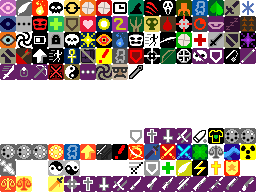
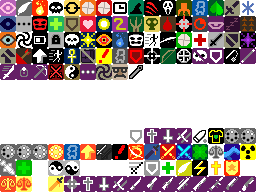
의무관 왕관 능력 리워크: 재생 장치

Changed region(s): [[0.0625, 0.8125, 0.125, 0.9375]]

diff --git a/core/src/main/java/com/shatteredpixel/shatteredpixeldungeon/actors/hero/abilities/medic/HealingGenerator.java b/core/src/main/java/com/shatteredpixel/shatteredpixeldungeon/actors/hero/abilities/medic/HealingGenerator.java
@@ -1,0 +1,115 @@
+/*
+ * Pixel Dungeon
+ * Copyright (C) 2012-2015 Oleg Dolya
+ *
+ * Shattered Pixel Dungeon
+ * Copyright (C) 2014-2022 Evan Debenham
+ *
+ * This program is free software: you can redistribute it and/or modify
+ * it under the terms of the GNU General Public License as published by
+ * the Free Software Foundation, either version 3 of the License, or
+ * (at your option) any later version.
+ *
+ * This program is distributed in the hope that it will be useful,
+ * but WITHOUT ANY WARRANTY; without even the implied warranty of
+ * MERCHANTABILITY or FITNESS FOR A PARTICULAR PURPOSE.  See the
+ * GNU General Public License for more details.
+ *
+ * You should have received a copy of the GNU General Public License
+ * along with this program.  If not, see <http://www.gnu.org/licenses/>
+ */
+
+package com.shatteredpixel.shatteredpixeldungeon.actors.hero.abilities.medic;
+
+import com.shatteredpixel.shatteredpixeldungeon.Dungeon;
+import com.shatteredpixel.shatteredpixeldungeon.actors.Actor;
+import com.shatteredpixel.shatteredpixeldungeon.actors.Char;
+import com.shatteredpixel.shatteredpixeldungeon.actors.buffs.Barrier;
+import com.shatteredpixel.shatteredpixeldungeon.actors.buffs.Buff;
+import com.shatteredpixel.shatteredpixeldungeon.actors.buffs.FlavourBuff;
+import com.shatteredpixel.shatteredpixeldungeon.actors.buffs.Invisibility;
+import com.shatteredpixel.shatteredpixeldungeon.actors.hero.Hero;
+import com.shatteredpixel.shatteredpixeldungeon.actors.hero.Talent;
+import com.shatteredpixel.shatteredpixeldungeon.actors.hero.abilities.ArmorAbility;
+import com.shatteredpixel.shatteredpixeldungeon.actors.mobs.Mob;
+import com.shatteredpixel.shatteredpixeldungeon.items.armor.ClassArmor;
+import com.shatteredpixel.shatteredpixeldungeon.ui.BuffIndicator;
+import com.shatteredpixel.shatteredpixeldungeon.ui.HeroIcon;
+
+public class HealingGenerator extends ArmorAbility {
+
+	{
+		baseChargeUse = 35f;
+	}
+
+	@Override
+	public void activate(ClassArmor armor, Hero hero, Integer target) {
+		Buff.affect(hero, RegenBuff.class, RegenBuff.DURATION + 5*hero.pointsInTalent(Talent.DURABLE_GEN));
+
+		hero.sprite.operate(hero.pos);
+		hero.spendAndNext(Actor.TICK);
+
+		armor.charge -= chargeUse(hero);
+		armor.updateQuickslot();
+		Invisibility.dispel();
+	}
+
+	@Override
+	public int icon() {
+		return HeroIcon.HEAL_GENERATOR;
+	}
+
+	@Override
+	public Talent[] talents() {
+		return new Talent[]{Talent.HEALING_AMP, Talent.SHIELD_GEN, Talent.DURABLE_GEN, Talent.HEROIC_ENERGY};
+	}
+
+	public static class RegenBuff extends FlavourBuff {
+		public static final float DURATION	= 20f;
+
+		{
+			type = buffType.POSITIVE;
+			announced = true;
+		}
+
+		@Override
+		public int icon() {
+			return BuffIndicator.REGEN;
+		}
+
+		@Override
+		public float iconFadePercent() {
+			return Math.max(0, (DURATION - visualcooldown()) / DURATION);
+		}
+
+		public void attackProc() {
+			if (!(target instanceof Hero)) {
+				detach();
+				return;
+			}
+
+			Hero hero = (Hero) target;
+			int affected = 0;
+			for (Mob mob : Dungeon.level.mobs.toArray( new Mob[0] )) {
+				if (mob.alignment == Char.Alignment.ALLY) {
+					int healAmt = Math.max((2*hero.pointsInTalent(Talent.HEALING_AMP) + 8)-2*Dungeon.level.distance(hero.pos, mob.pos), 0); //기본 회복량은 8이나, 아군이 최소 1타일은 떨어져 있기 때문에 실질적인 초기 회복량은 6이 된다.
+					if (healAmt > 0 && mob.HP < mob.HT) { //최대 체력인 아군은 회복시키지 않으며, 적용된 아군 숫자에도 포함시키지 않음
+						mob.heal(healAmt);
+						affected++;
+					}
+				}
+			} //heals nearby enemies per every attack
+			
+			if (affected > 0 && hero.hasTalent(Talent.SHIELD_GEN)) { //방어막 적용 메커니즘
+				affected = Math.min(affected, 8); //최대 8체까지만 적용
+				for (int i = 0; i < affected; i++) {
+					Barrier barrier = Buff.affect(hero, Barrier.class);
+					barrier.incShield(hero.pointsInTalent(Talent.SHIELD_GEN));
+					if (barrier.shielding() > Math.round(hero.HT*0.8f)) { //실드가 최대 체력의 80%를 넘어갈 경우 방어막 양을 최대 체력의 80%로 설정
+						barrier.setShield(Math.round(hero.HT*0.8f));
+					}
+				}
+			}
+		}
+	}
+}

diff --git a/core/src/main/java/com/shatteredpixel/shatteredpixeldungeon/actors/hero/HeroClass.java b/core/src/main/java/com/shatteredpixel/shatteredpixeldungeon/actors/hero/HeroClass.java
@@ -48,7 +48,7 @@ import com.shatteredpixel.shatteredpixeldungeon.actors.hero.abilities.mage.WarpB
 import com.shatteredpixel.shatteredpixeldungeon.actors.hero.abilities.mage.WildMagic;
 import com.shatteredpixel.shatteredpixeldungeon.actors.hero.abilities.medic.AngelWing;
 import com.shatteredpixel.shatteredpixeldungeon.actors.hero.abilities.medic.GammaRayEmmit;
-import com.shatteredpixel.shatteredpixeldungeon.actors.hero.abilities.medic.HealareaGenerator;
+import com.shatteredpixel.shatteredpixeldungeon.actors.hero.abilities.medic.HealingGenerator;
 import com.shatteredpixel.shatteredpixeldungeon.actors.hero.abilities.rogue.DeathMark;
 import com.shatteredpixel.shatteredpixeldungeon.actors.hero.abilities.rogue.ShadowClone;
 import com.shatteredpixel.shatteredpixeldungeon.actors.hero.abilities.rogue.SmokeBomb;
@@ -453,7 +453,7 @@ public enum HeroClass {
 			case KNIGHT:
 				return new ArmorAbility[]{new HolyShield(), new StimPack(), new UnstableAnkh()};
 			case MEDIC:
-				return new ArmorAbility[]{new HealareaGenerator(), new AngelWing(), new GammaRayEmmit()};
+				return new ArmorAbility[]{new HealingGenerator(), new AngelWing(), new GammaRayEmmit()};
 		}
 	}
 

diff --git a/core/src/main/java/com/shatteredpixel/shatteredpixeldungeon/actors/hero/Hero.java b/core/src/main/java/com/shatteredpixel/shatteredpixeldungeon/actors/hero/Hero.java
@@ -104,6 +104,7 @@ import com.shatteredpixel.shatteredpixeldungeon.actors.hero.abilities.duelist.El
 import com.shatteredpixel.shatteredpixeldungeon.actors.hero.abilities.gunner.ReinforcedArmor;
 import com.shatteredpixel.shatteredpixeldungeon.actors.hero.abilities.gunner.Riot;
 import com.shatteredpixel.shatteredpixeldungeon.actors.hero.abilities.huntress.NaturesPower;
+import com.shatteredpixel.shatteredpixeldungeon.actors.hero.abilities.medic.HealingGenerator;
 import com.shatteredpixel.shatteredpixeldungeon.actors.hero.abilities.samurai.ShadowBlade;
 import com.shatteredpixel.shatteredpixeldungeon.actors.hero.abilities.warrior.Endure;
 import com.shatteredpixel.shatteredpixeldungeon.actors.mobs.Mimic;
@@ -2166,6 +2167,11 @@ public class Hero extends Char {
 		}
 
 		//attacking procs
+		HealingGenerator.RegenBuff regenBuff = hero.buff(HealingGenerator.RegenBuff.class);
+		if (regenBuff != null) {
+			regenBuff.attackProc();
+		}
+
 		if (hero.hasTalent(Talent.BAYONET) && hero.buff(ReinforcedArmor.ReinforcedArmorTracker.class) != null){
 			if (wep instanceof Gun) {
 				Buff.affect( enemy, Bleeding.class ).set( 4 + hero.pointsInTalent(Talent.BAYONET));

diff --git a/core/src/main/java/com/shatteredpixel/shatteredpixeldungeon/ui/BuffIndicator.java b/core/src/main/java/com/shatteredpixel/shatteredpixeldungeon/ui/BuffIndicator.java
@@ -149,6 +149,7 @@ public class BuffIndicator extends Component {
 	public static final int HORSE_RIDING= 158;
 	public static final int RADIOACTIVE	= 159;
 	public static final int STIMPACK	= 160;
+	public static final int REGEN		= 161;
 
 	public static final int SIZE_SMALL  = 7;
 	public static final int SIZE_LARGE  = 16;

diff --git a/core/src/main/java/com/shatteredpixel/shatteredpixeldungeon/actors/hero/Talent.java b/core/src/main/java/com/shatteredpixel/shatteredpixeldungeon/actors/hero/Talent.java
@@ -617,7 +617,7 @@ public enum Talent {
 	EXPLOSION_CMD				(29, 10, 3),
 	CAS_CMD						(30, 10, 3), //CAS = Close Air Support
 	//HealGenerator T4
-	AREA_AMP					(31, 10, 4),
+	HEALING_AMP					(31, 10, 4),
 	SHIELD_GEN					(32, 10, 4),
 	DURABLE_GEN					(33, 10, 4),
 	//AngelWing T4
